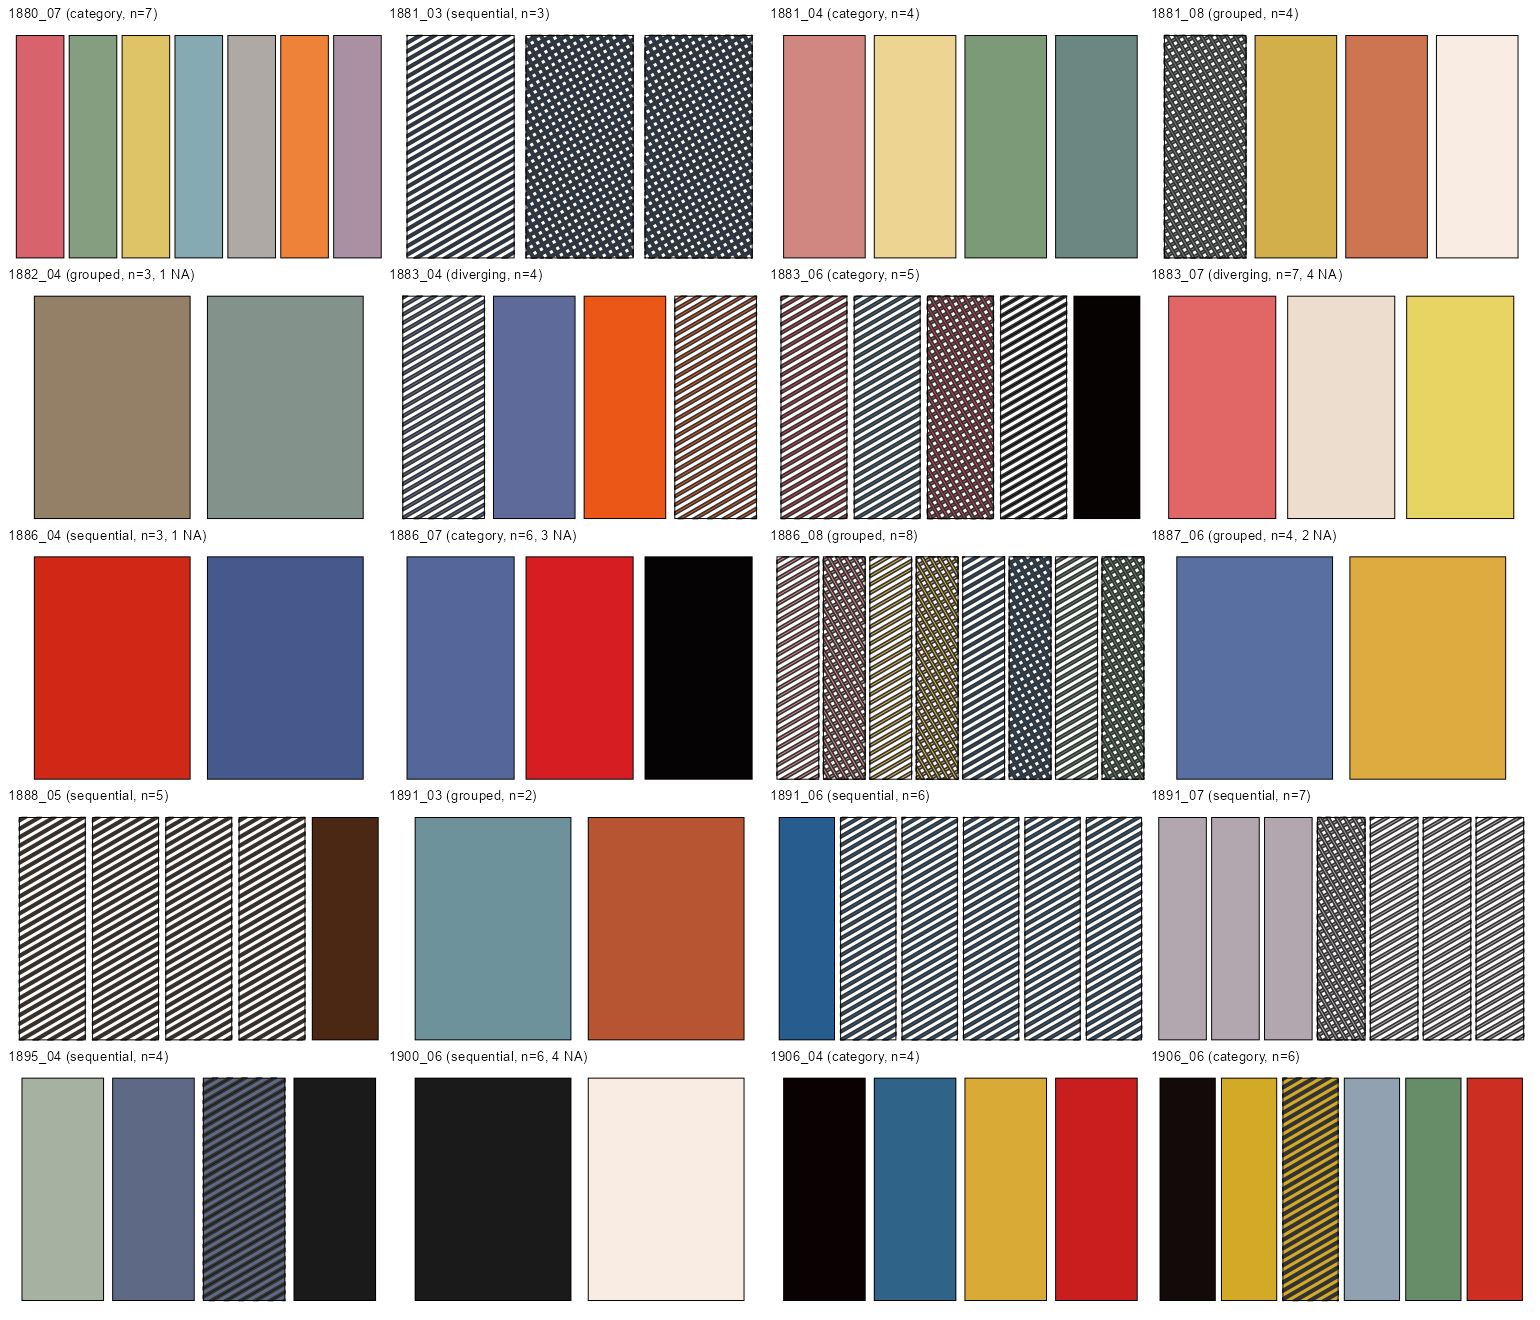
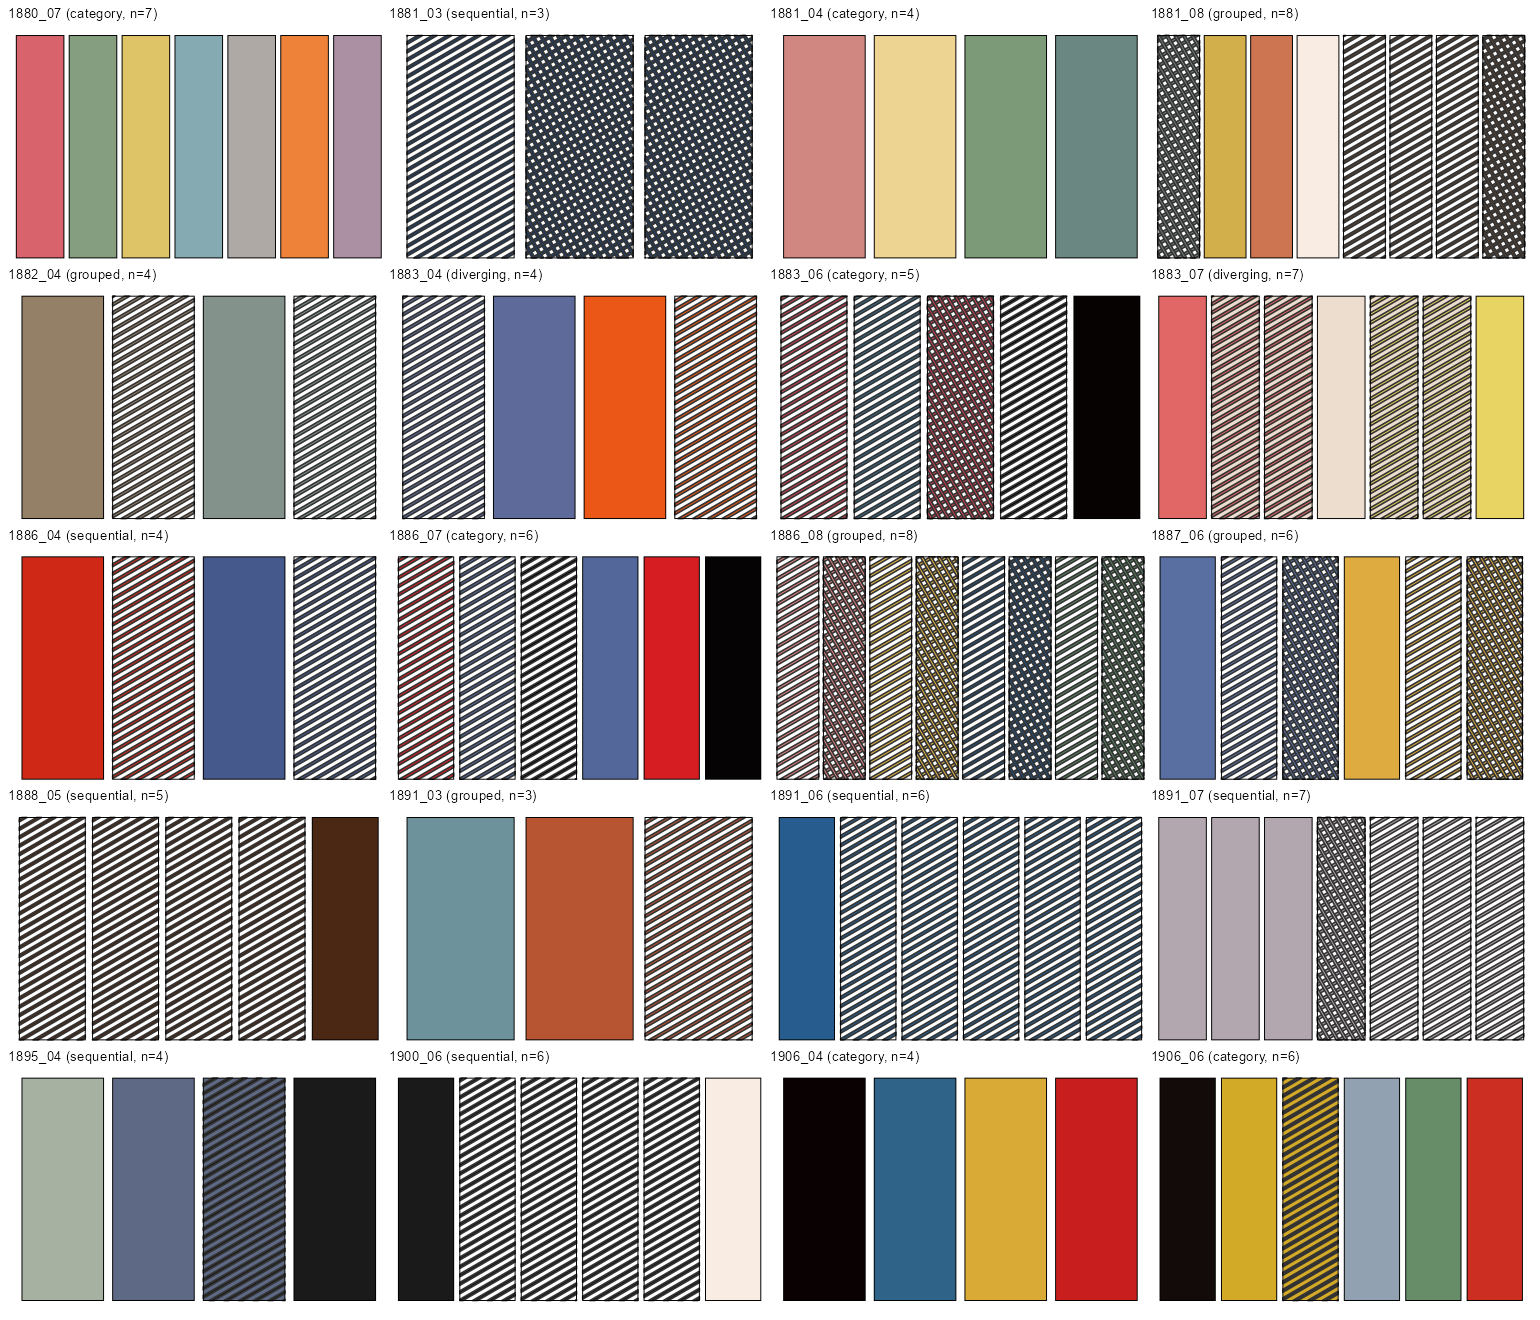
Fix SVG line-pattern parsing gaps: recover all 15 missing pattern elements
Root cause: dev/patterns/parse_patterns_v2.R required x1/y1/x2/y2 to all be
explicitly present on <line> tags, but SVG defaults omitted coordinates to
0 (e.g. a horizontal line just writes y1/x2/y2 and omits x1="0"). Every
line-hatch pattern in the 6 affected palettes (1882_04, 1883_07, 1886_04,
1886_07, 1887_06, 1900_06) relies on this default, so every line in them
was silently dropped, leaving the pattern's `type` unset (NULL) - which
then propagated through data-raw/cheysson_patterns.R's `next`-on-NULL skip
into the shipped data as 15 NULL/missing pattern elements across 98 total.

Also fixed a second issue found while re-running the parser: dec01.txt
(1883_07) uses percentage coordinates (x2="100%") and attribute-style
stroke="#xxx"/stroke-width="Npx" instead of the style="stroke:..." syntax
used elsewhere.

Regenerated dev/svg_patterns.RData and data/cheysson_patterns.rda. Verified
zero gaps remain across all 20 palettes, the 3 truncated arrays now match
their true source lengths, and a regression check against 3 previously-
correct entries shows byte-identical values - the fix is purely additive.
R CMD check clean (0/0/0).

Claude-Session: https://claude.ai/code/session_013HLPGUTfSSeDUK29VWwYDA

diff --git a/dev/TASKS.md b/dev/TASKS.md
@@ -136,8 +136,11 @@ even after another machine's `.git` has been moved out.
 
 - [ ] Make a plan to incorporate "palettes" that combine color and pattern fills. There are a 
   bunch of attempts and tests in `dev/colorpat/`. Review this work. If useful, check with authors
-  of `ggpattern` on how best to do this. The goal would be to be able to use the palettes shown in
+  of `ggpattern` on how best to do this. 
+  
+  The goal would be to be able to use the palettes shown in
   C:\Dropbox\R\projects\ggCheysson\man\figures\RJ-Andrews-color-palettes.jpg
+  Consider this to be ground truth here.
 
   - [x] 2026-09-16: created the `colorpat` branch (pushed to origin).
 
@@ -198,6 +201,32 @@ even after another machine's `.git` has been moved out.
       `cheysson_pattern_params()`/the scale functions substitute a safe default (e.g. `"none"`
       pattern, `"grey50"` fill) instead of `NA` for a `NULL` element - the latter is a quick
       robustness fix but doesn't recover the actual missing historical color/pattern.
+
+    - [x] 2026-09-16: **root-caused and fixed all 15 gaps** - turned out to be neither of the two
+      options above. Checked which source SVG pattern block each gap position corresponds to
+      (`data-raw/observable/decNN.txt`, via `dec_day`): every single one is a `<line>`-based hatch
+      pattern where every `<line>` tag omits at least one of `x1`/`y1`/`x2`/`y2` (valid SVG - these
+      default to 0 - e.g. a horizontal line just omits `x1="0"`). `dev/patterns/parse_patterns_v2.R`
+      required all four attributes to be explicitly present before accepting a line
+      (`if (!any(is.na(c(x1,y1,x2,y2))))`), so every line in these patterns was silently dropped;
+      with zero parsed lines, the pattern's `type` was never set, propagating as `NULL` through
+      `data-raw/cheysson_patterns.R`'s `if (is.null(pat$type)) next`. Fixed by defaulting a missing
+      coordinate to 0 instead of treating it as unparseable. Also found and fixed a second, distinct
+      issue while re-running the parser: `dec01.txt` (`1883_07`) uses `x2="100%"` (percentage units)
+      and plain `stroke="#xxx"`/`stroke-width="Npx"` attributes instead of the `style="stroke:...`
+      syntax used elsewhere - added `parse_coord()` (strips a trailing `%`) and broadened the
+      stroke/width regexes to `stroke[:=]"?`/`stroke-width[:=]"?` to accept both syntaxes.
+      Regenerated `dev/svg_patterns.RData` and `data/cheysson_patterns.rda`. Verified: 0 gaps
+      remain across all 20 palettes (was 15 across 6); the 3 truncated arrays (`1882_04`,
+      `1886_04`, `1887_06`) now match their true source lengths; a regression check against 3
+      previously-good entries (`1880_07[1]`, `1881_04[1]`, `1883_06[1]`) shows byte-identical
+      fill/pattern_fill/pattern_angle values - fix is purely additive. `R CMD check` clean
+      (0/0/0). Note: `dev/colorpat/show_all_patterns.R`'s swatches never map `pattern_angle` (uses
+      ggpattern's default 30° for every swatch), so its rendered angles don't reflect the real
+      per-palette data even though the underlying data is now correct (e.g. `1882_04`'s recovered
+      entries are genuinely `pattern_angle = 0`/horizontal, confirmed via `str()`, despite
+      rendering diagonal in that script) - worth fixing when building the RJ-Andrews comparison
+      grid next.
       
     - **`UNIFIED_COLOR_PATTERN_PLAN.md` has a real API plan**: new data object
       `cheysson_colorpat_palettes` (list of palettes, each with `elements` =
@@ -244,4 +273,5 @@ even after another machine's `.git` has been moved out.
   each of the Cheysson palettes with a snip from an original figure. It would be useful to download 
   a couple of these and use in the README or elsewhere. Note that he uses different names than RJ 
   for the palettes.
+  Files: man/figures/cheysson1.png, man/figures/cheysson2.png are two examples
 
